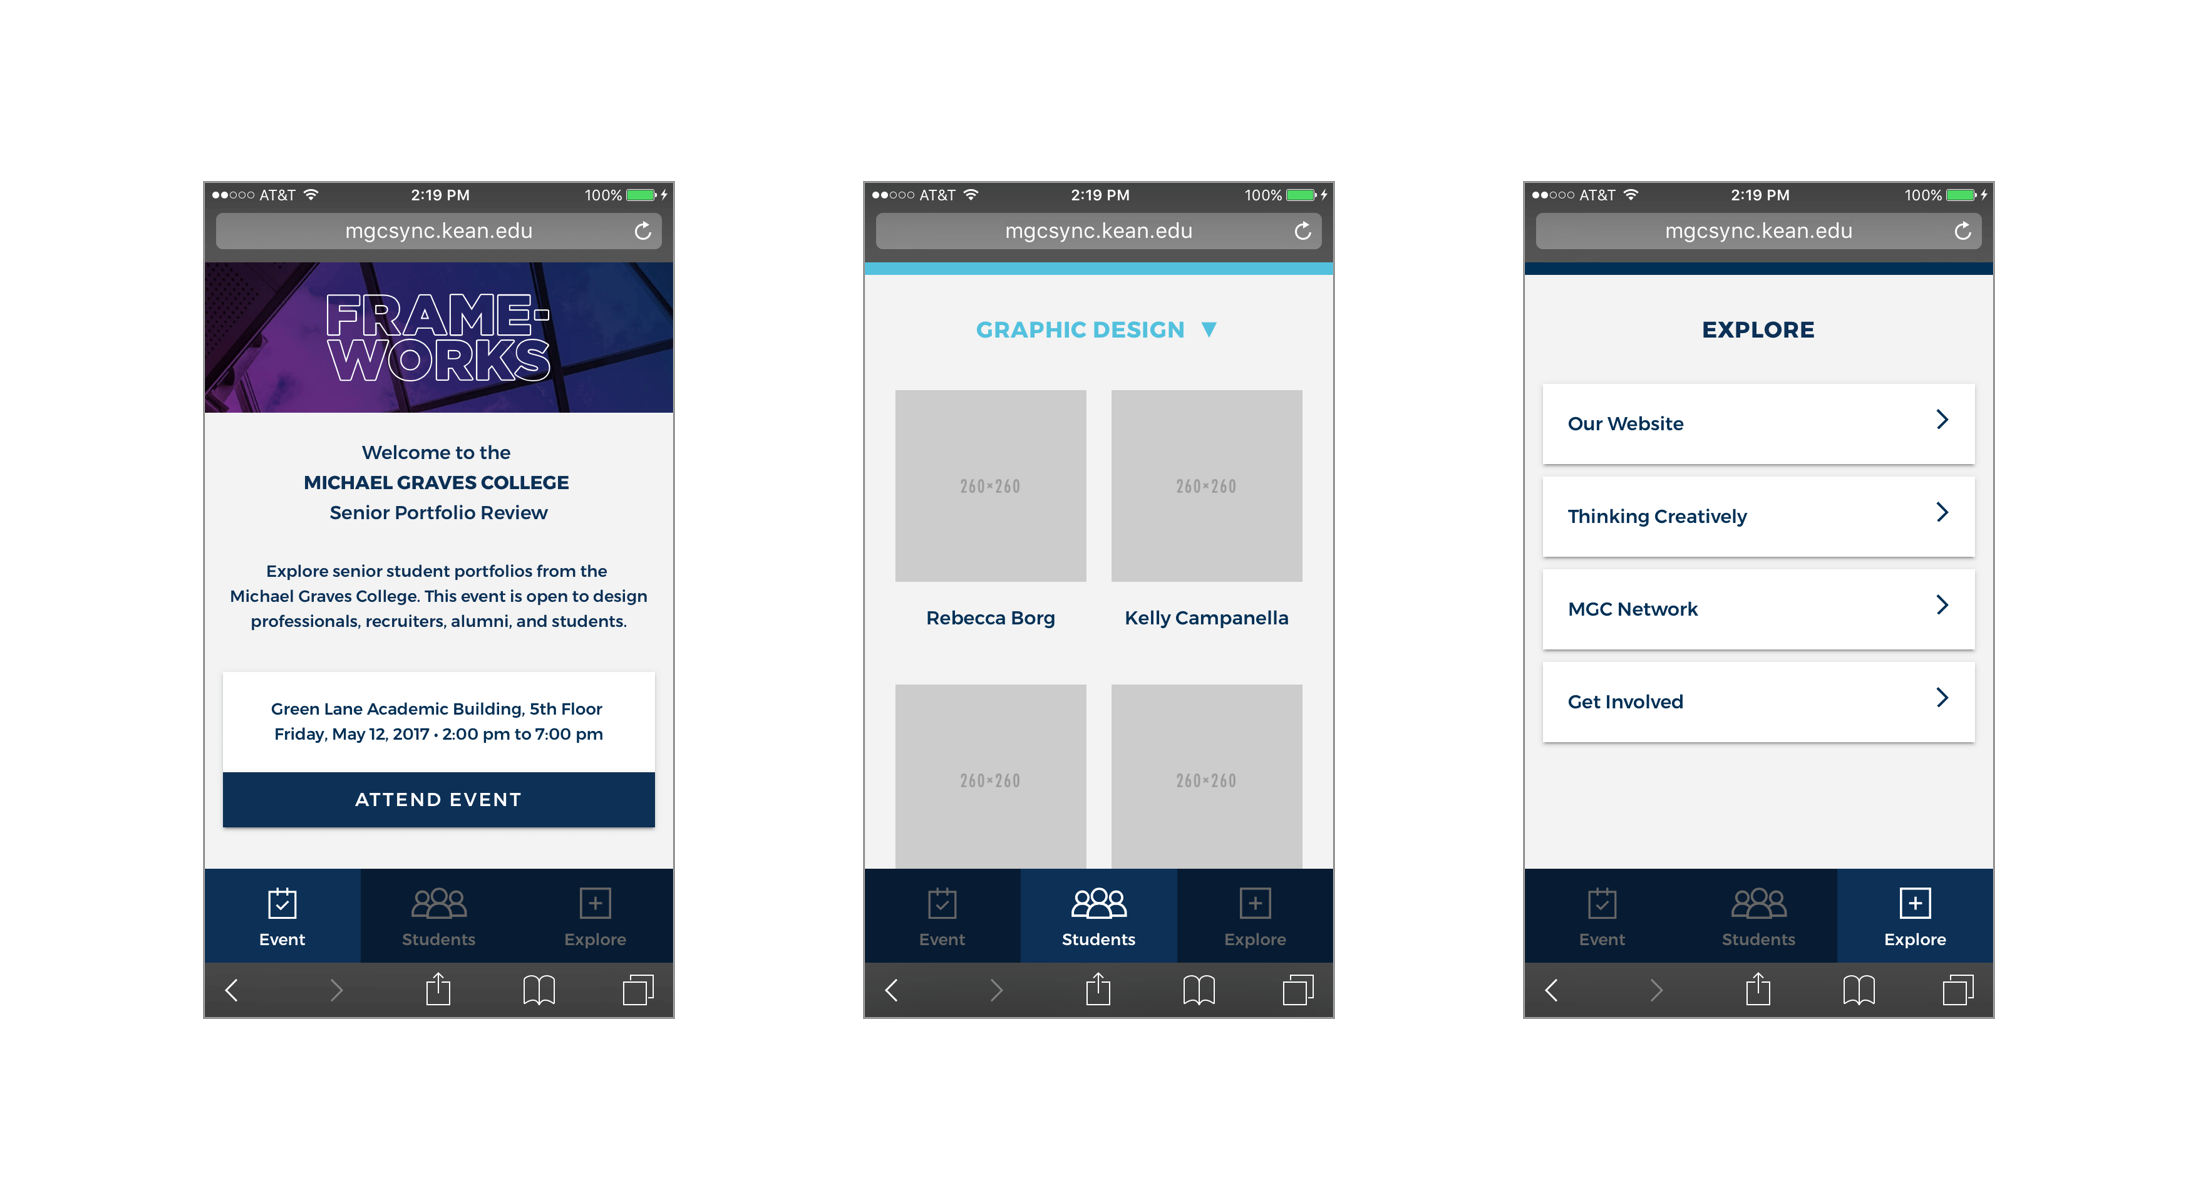
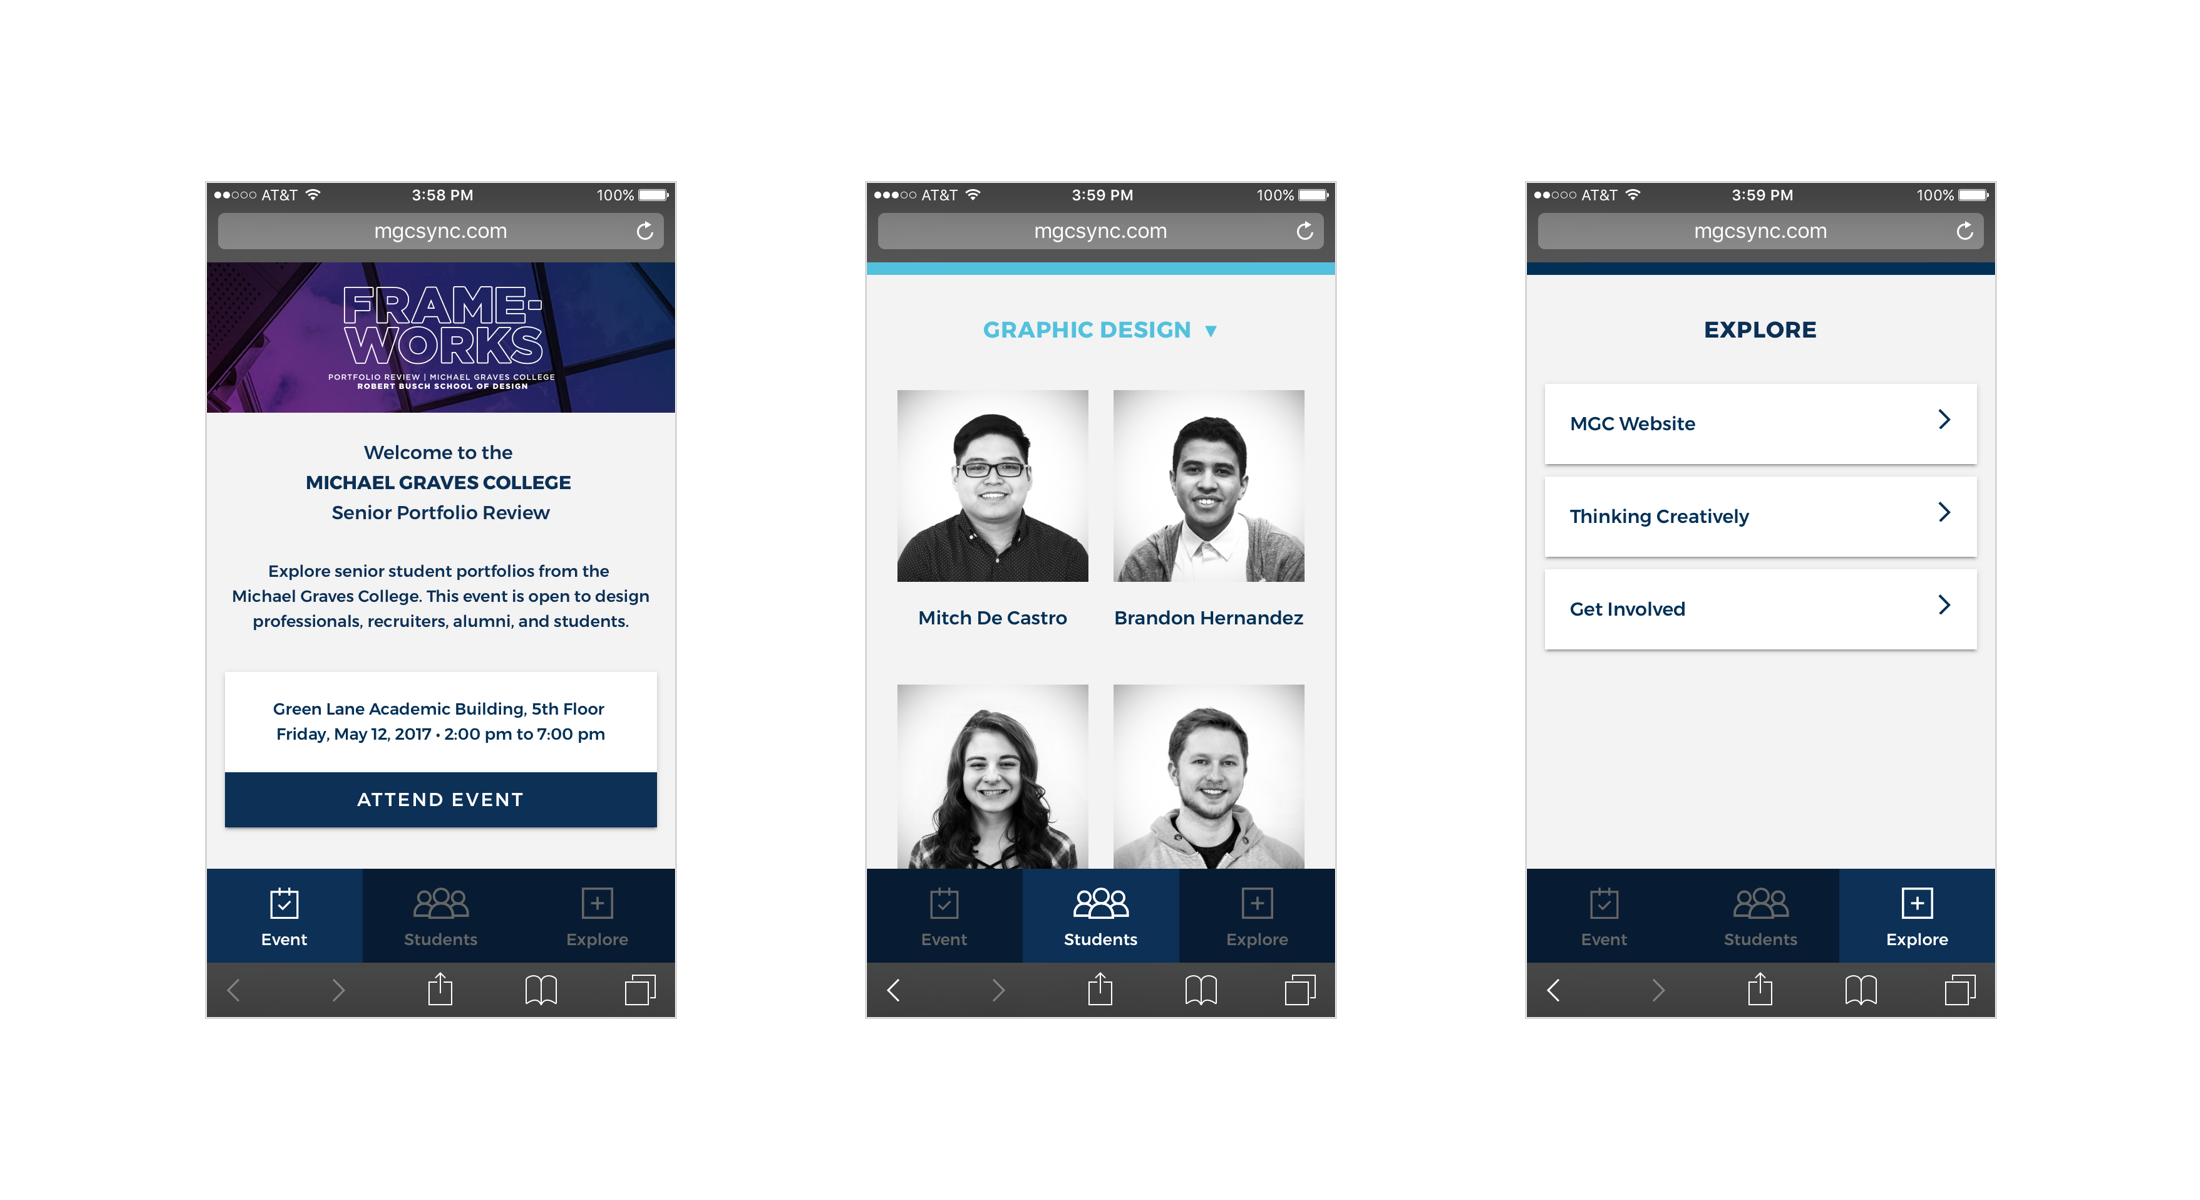
updating cover images for MGC

diff --git a/info.html b/info.html
@@ -273,10 +273,13 @@
                 Robert Busch School of Design
                 <br>
                 Kean University
+              </h4>
+              <p>
                 <br>
                 Summa cum laude
-              </h4>
-              <p>3.96 GPA</p>
+                <br>
+                3.96 GPA
+              </p>
             </div>
           </div>
         </section>
